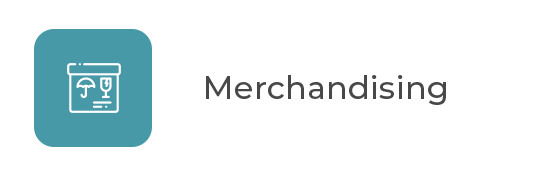
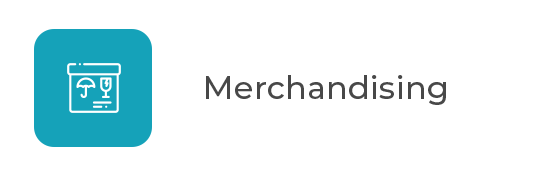
Changing button colors again - switch buttons

Changed region(s): [[0.0599, 0.142, 0.2996, 0.8523]]

diff --git a/app/assets/stylesheets/custom.css.scss b/app/assets/stylesheets/custom.css.scss
@@ -325,11 +325,11 @@ box-shadow: 0px -4px 3px rgba(50, 50, 50, 0.15);  }
 .switch-buttons-active:active:focus, .switch-buttons-active:focus {outline: none;background-color:#f9f9f9;border:1;}
 
 .blue-active, .blue-active:active:focus, .blue-active:active,
-             .blue-active:focus {border-color:#19a3bb;}
+             .blue-active:focus {/*border-color:#19a3bb;*/border-color:#15a2b9;}
 .red-active, .red-active:active:focus, .red-active:active,
-             .red-active:focus {border-color:#D13E27;}
+             .red-active:focus {/*border-color:#D13E27;*/border-color:#d03d27;}
 .yellow-active, .yellow-active:active:focus, .yellow-active:active,
-             .yellow-active:focus {border-color:#E5BA21;}
+             .yellow-active:focus {/*border-color:#E5BA21;*/border-color:#e5b920;}
 
 .action-buttons img {width:30px;}
 a.action-buttons:hover {background-color:none;}
